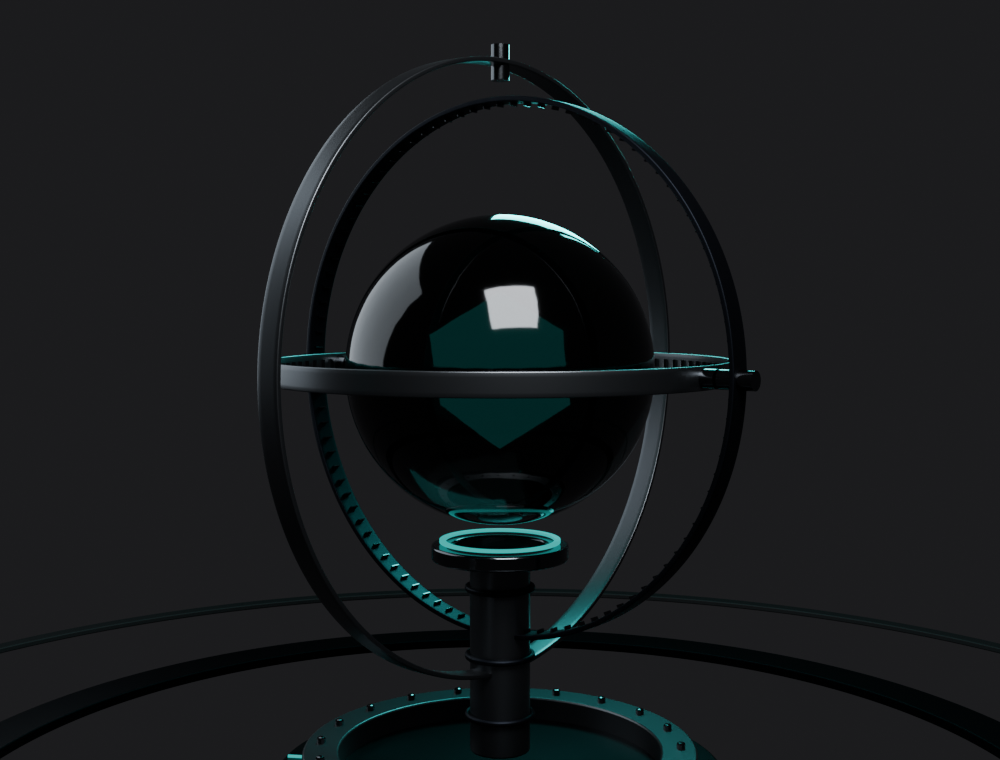
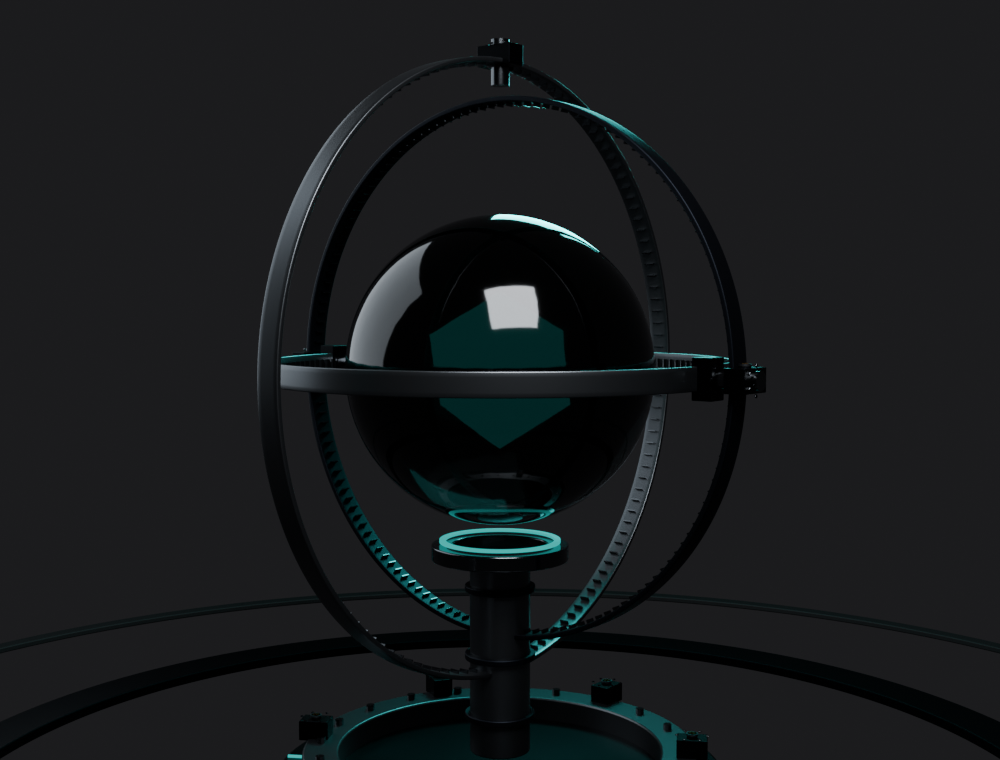
High-density rebuild: prediction core (Act III hero)
Added gimbal + instrument density to the armillary: each gyro pivot now has a
machined bearing HOUSING (box + 6-bolt ring + shaft boss + data connector)
instead of a bare stub; all three hoops carry fine graduation ticks (132-144);
the cradle base gains a ring of 6 instrument pods (gauge housings + connectors
+ bolt rings). Reads as a precise instrument, not a bare gimbal.

diff --git a/tools/blender/build_prediction_core.py b/tools/blender/build_prediction_core.py
@@ -19,6 +19,7 @@ sys.path.insert(0, os.path.dirname(__file__))
 import bpy, bmesh  # type: ignore
 from mathutils import Vector, Matrix  # type: ignore
 import sovereign_bpy as S
+import sovereign_kit as K
 
 RENDER = "--render" in sys.argv
 OUT = os.path.join(os.path.dirname(__file__), "../../public/assets/models/prediction_core.glb")
@@ -122,22 +123,32 @@ def gyro(idx, r, depth, wall, tilt, mat, verts=248, ticks=0):
         tk = ring_ticks(f"{idx}_ticks", r - wall - 0.006, ticks,
                         0.024, 0.006, depth * 0.42, col, m["titanium_polish"])
         parts.append(tk)
-    # Pivot bosses on the gimbal axis (±X of the untilted ring).
+    # Gimbal bearing HOUSINGS on the pivot axis (±X of the untilted ring): a
+    # machined bearing box + bolt ring + a shaft boss + a data connector. This
+    # is the biggest density add — real gimbal joints, not bare stubs.
     for sx in (-1, 1):
-        boss = S.cyl(f"{idx}_pivot", 0.045, depth + 0.05, 20,
-                     (sx * (r - wall / 2), 0, 0), col)
+        px = sx * (r - wall / 2)
+        boss = S.cyl(f"{idx}_pivot{sx}", 0.045, depth + 0.10, 24, (px, 0, 0), col)
         boss.rotation_euler = (0, math.pi / 2, 0)
         S.assign(boss, m["titanium_polish"]); S.shade_smooth(boss)
         parts.append(boss)
+        hx = sx * (r + 0.02)
+        house = S.box(f"{idx}_gh{sx}", (0.10, 0.11, depth + 0.08), (hx, 0, 0), col)
+        S.assign(house, m["graphite"]); S.bevel(house, 0.004, 2)
+        parts.append(house)
+        parts += K.bolt_ring(f"{idx}_ghb{sx}", (sx * (r + 0.07), 0, 0), (sx, 0, 0),
+                             0.065, 6, col, m, r=0.007, head_h=0.007)
+        parts += K.connector_port(f"{idx}_ghc{sx}", (hx, 0.062, 0), col, m,
+                                  r=0.026, depth=0.02, axis=(0, 1, 0), pins=5)
     g = S.join_all(parts, f"Gyro_{idx}")
     g.rotation_euler = tilt
     return g
 
 # Three mutually-perpendicular hoops, nested by radius so they never intersect.
-gyro(0, 1.14, 0.11, 0.026, (0.0, 0.0, 0.0), m["titanium"], ticks=96)      # equator
+gyro(0, 1.14, 0.11, 0.026, (0.0, 0.0, 0.0), m["titanium"], ticks=144)     # equator
 gyro(1, 1.32, 0.12, 0.026, (math.pi / 2, 0.0, 0.0), m["graphite_light"],
-     ticks=96)                                                            # meridian
-gyro(2, 1.50, 0.12, 0.024, (0.0, math.pi / 2, 0.0), m["titanium"])        # meridian
+     ticks=144)                                                           # meridian
+gyro(2, 1.50, 0.12, 0.024, (0.0, math.pi / 2, 0.0), m["titanium"], ticks=132)  # meridian
 
 
 # ---------------------------------------------------------------------------
@@ -165,6 +176,20 @@ for i in range(NBolt):
     bolt = S.cyl(f"Cradle_Bolt_{i}", 0.022, 0.05, 8, (bx, by, BASE_Z + 0.075), col)
     S.assign(bolt, m["titanium_polish"])
     cradle_parts.append(bolt)
+
+# Instrument pods around the base ring — machined gauge housings + data
+# connectors + a bolt ring each (the base reads as a real instrument deck).
+for i in range(6):
+    a = (i / 6) * math.tau + math.radians(30)
+    px, py = math.cos(a) * 0.95, math.sin(a) * 0.95
+    pod = S.box(f"Cradle_Inst{i}", (0.15, 0.11, 0.10), (px, py, BASE_Z + 0.11), col)
+    pod.rotation_euler = (0, 0, a)
+    S.assign(pod, m["graphite"]); S.bevel(pod, 0.004, 2)
+    cradle_parts.append(pod)
+    cradle_parts += K.connector_port(f"Cradle_InstC{i}", (px, py, BASE_Z + 0.17),
+                                     col, m, r=0.026, depth=0.02, axis=(0, 0, 1), pins=7)
+    cradle_parts += K.bolt_ring(f"Cradle_InstB{i}", (px, py, BASE_Z + 0.165),
+                                (0, 0, 1), 0.075, 6, col, m, r=0.006, head_h=0.006)
 
 # A single machined central column rises to a cradle cup; the sphere hovers
 # above it with a clean suspension gap. Quieter and more monolithic than a